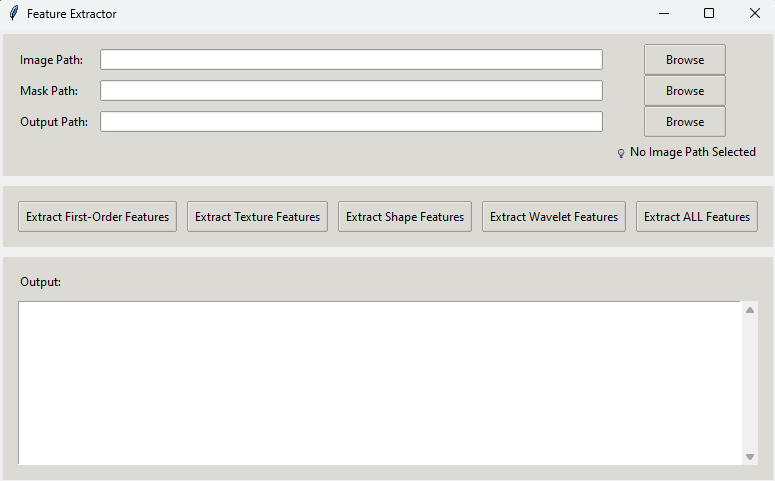
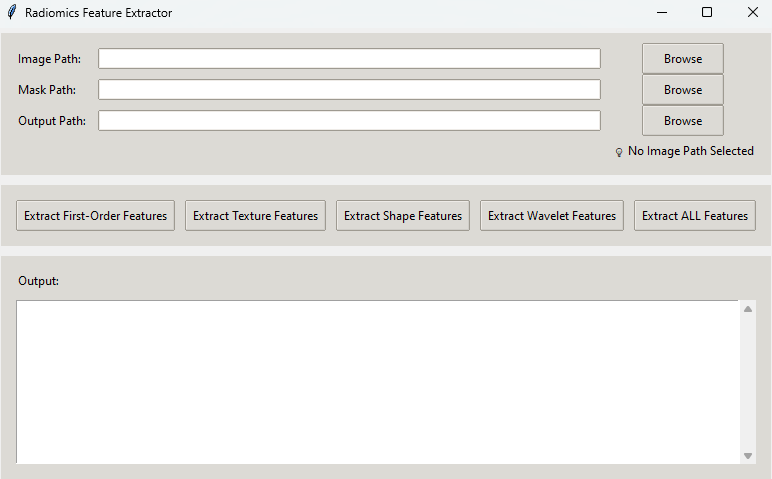
Updated Radiomics Feature Extractor script and UI image

diff --git a/code/Radiomics_Feature_Extractor.py b/code/Radiomics_Feature_Extractor.py
@@ -373,7 +373,7 @@ def run_feature_extraction(feature_type=None):
 
 
 root = tk.Tk()
-root.title("Feature Extractor")
+root.title("Radiomics Feature Extractor")
 
 style = ttk.Style(root)
 style.theme_use("clam")
